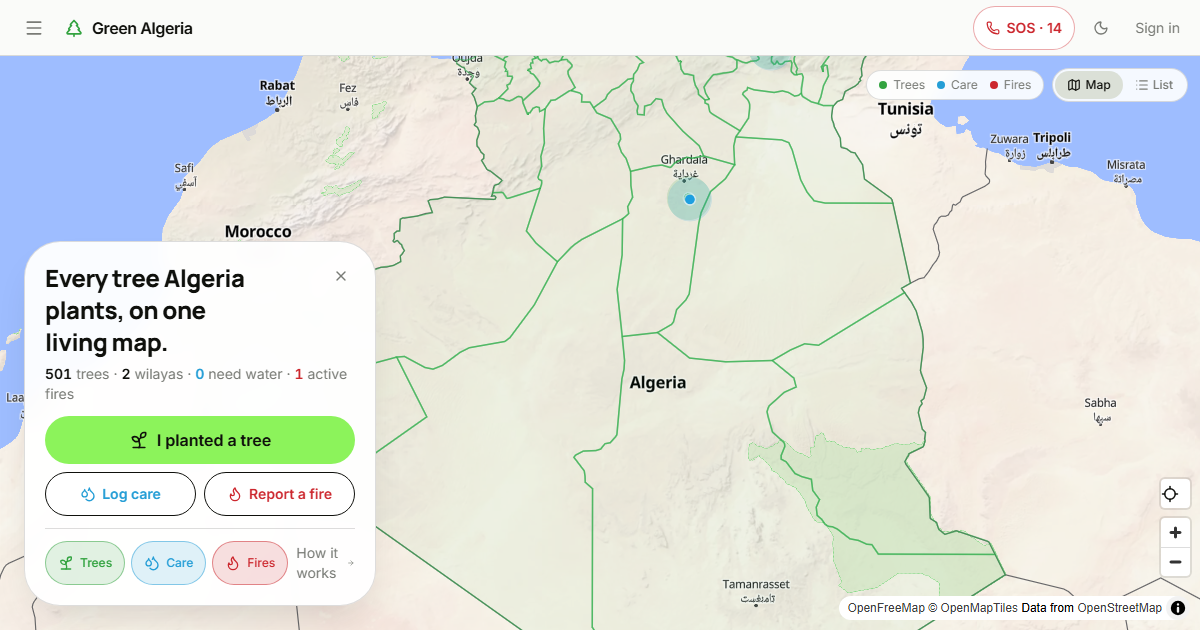
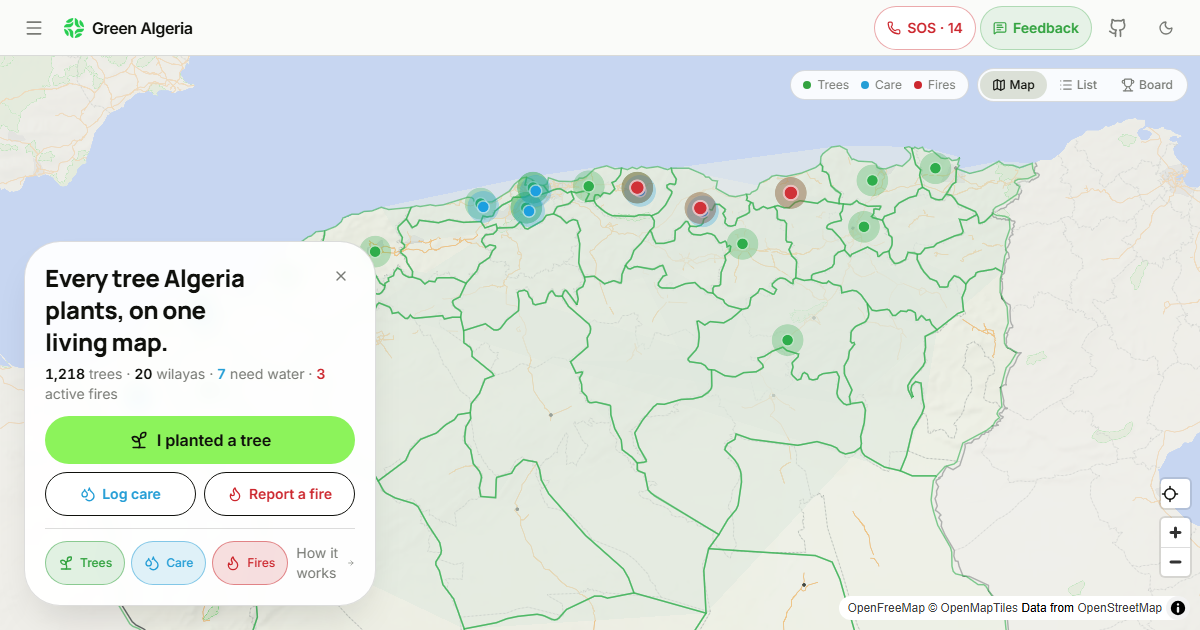
docs: retake og.png from the populated home (north framing)

diff --git a/docs/CHANGELOG.md b/docs/CHANGELOG.md
@@ -2,6 +2,12 @@
 
 Reconstructed from git history (17 commits, 2026-08-12 → 2026-08-13) plus the live database state. Commit messages are mostly the generic "Changes", so entries below are grouped by what the diffs actually contain, not by message. Superseded on 2026-08-17: the working tree was committed as the repo's single initial commit `ecb4209`, so history from here on is real.
 
+## 2026-08-21 (thirty-ninth pass) — og.png retaken from a populated home + showcase seed/cleanup
+
+- **Showcase seed (temporary, owner-requested):** 24 approved plantings across 20 wilayas (1,218 trees, all this month so the leaderboard race was full), 8 care logs, 4 fire reports — inserted with generated UUIDs, `photo_url = ''`, `location_approximate = true` at wilaya centres. Used to review the populated app (map, Board view, grouped list) and to retake the README/og screenshot. **Cleaned back to zero afterwards** (delete by saved ID list; verified zero across sites, care_logs, fire_reports, receipts, photos).
+- **`public/og.png` retaken:** 1200×630 Playwright capture of the production home with the showcase data live ("1,218 trees" visible in the stats line) and the new north framing. Verified non-blank (67 sampled color buckets), replaces the old cut-off screenshot the owner flagged.
+- PRs merged in this window: #25 (north initial view), #26 (list view rebuild).
+
 ## 2026-08-21 (thirty-eighth pass) — List view rebuilt (PR F)
 
 - **Wilaya-grouped list (owner: "not the perfect UI/UX — rethink and rebuild"):** the flat 30-row wall is gone. Reports (plantings + fires, same layer filters as the map) are now grouped by wilaya — section headers with per-wilaya totals ("Oran · 12 trees · 1 fire"), groups ordered by most recent activity, photo-thumb rows for plantings (private-bucket proxy URLs, lazy-loaded) with the needs-water badge, fire rows with severity + status. 181 lines, under the cap.
